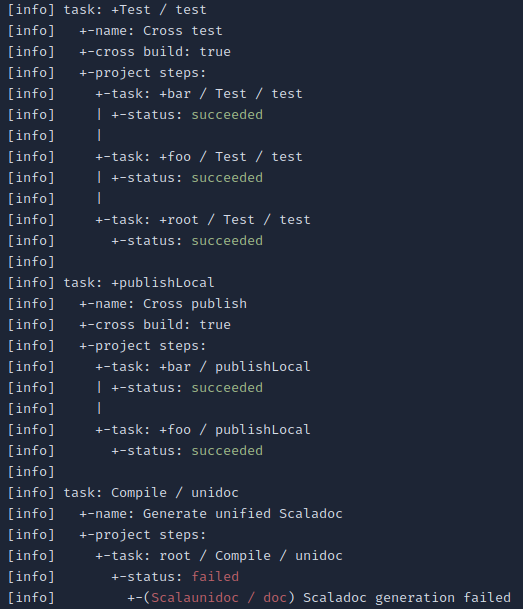
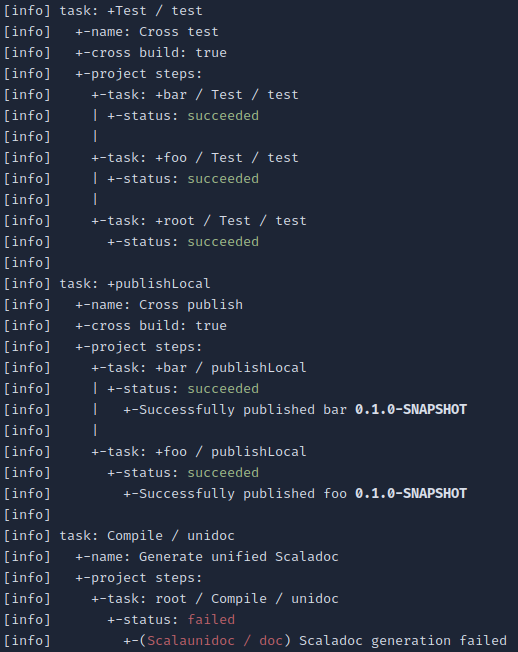
docs: update README.md
Update demo image and clarify some things

Changed region(s): [[0.0, 0.0, 0.9884, 0.9984]]

diff --git a/README.md b/README.md
@@ -1,8 +1,8 @@
 # sbt steps
 
 Configure, run and share a list of tasks and commands to run in your sbt projects. Run the
-steps from the sbt shell. Generate reports in HTML or in ASCII format. Use in GitHub
-Actions or any other CI environment.
+steps from the sbt shell with a single command. Generate reports in HTML or in ASCII
+format. Use in GitHub Actions or any other CI environment.
 
 ## Demo
 
@@ -13,7 +13,7 @@ Here are two report examples after running `ci` using `CIStepsPlugin`:
     <td><b>HTML report</b></td>
   </tr>
   <tr valign=top>
-    <td height=460>
+    <td height=526>
       <p><code><b>sbt:root> ci/stepsStatusReport -</b></code></p>
       <sup>
         <table><tr height=30><td colspan=5 width=400>(<b><code>+Test / test</code></b>) Cross test</td></tr><tr height=30><td title="succeeded" width=40>:white_check_mark:</td><td colspan=2><code>+bar / Test / test</code></td></tr><tr height=30><td title="succeeded" width=40>:white_check_mark:</td><td colspan=2><code>+foo / Test / test</code></td></tr><tr height=30><td title="succeeded" width=40>:white_check_mark:</td><td colspan=2><code>+root / Test / test</code></td></tr><tr height=30><td colspan=5 width=400>(<b><code>+publishLocal</code></b>) Cross publish</td></tr><tr height=30><td title="succeeded" width=40>:white_check_mark:</td><td colspan=2><code>+bar / publishLocal</code></td></tr><tr height=30><td></td><td width=40>:green_circle:</td><td>Successfully published bar <code>0.1.0-SNAPSHOT</code></td></tr><tr height=30><td title="succeeded" width=40>:white_check_mark:</td><td colspan=2><code>+foo / publishLocal</code></td></tr><tr height=30><td></td><td width=40>:green_circle:</td><td>Successfully published foo <code>0.1.0-SNAPSHOT</code></td></tr><tr height=30><td title="skipped" width=40>:white_large_square:</td><td colspan=2><code>+root / publishLocal</code></td></tr><tr height=30><td></td><td width=40>:white_circle:</td><td><code>publishLocal / skip</code> is set to true</td></tr><tr height=30><td colspan=5 width=400>(<b><code>Compile / unidoc</code></b>) Generate unified Scaladoc</td></tr><tr height=30><td title="failed" width=40>:red_square:</td><td colspan=2><code>root / Compile / unidoc</code></td></tr><tr height=30><td></td><td width=40>:x:</td><td>(<code>Scalaunidoc / doc</code>) Scaladoc generation failed</td></tr></table>  
@@ -26,7 +26,7 @@ Here are two report examples after running `ci` using `CIStepsPlugin`:
     <td><b>ASCII report</b></td>
   </tr>
   <tr valign=top>
-    <td height=460>
+    <td height=526>
       <p><code><b>sbt:root> ci/stepsTree --status</b></code></p>
       <img alt="steps tree" src="docs/stepstree.png" width=370 />
     </td>
@@ -63,6 +63,8 @@ lazy val myProject = (project in file("."))
   )
 ```
 
+Head over to [Usage](#usage).
+
 ### Create your own `StepsPlugin`
 
 See the [plugin development docs][create-steps-plugin].
@@ -97,7 +99,7 @@ After `ci` has completed, run `ci/stepsTree --status` to print the steps tree wi
 completed status. A status optionally has a message, such as:
 ```
 [info] +- status: succeeded
-[info]  +- Successfully published my-project `0.1.0-SNAPSHOT`.
+[info]  +- Successfully published my-project 0.1.0-SNAPSHOT.
 ```
 
 A detailed HTML report is created during `ci` that you can use as a job summary in [GitHub
@@ -181,6 +183,7 @@ customized as follows:
 
 ```sbt
 lazy val foo = (project in file("foo"))
+  .enablePlugins(ScalaUnidocPlugin)
   .settings(
     ci / steps := Seq(
       Test / test,
@@ -218,9 +221,8 @@ sbt:bar > ci/stepsTree
 
 > [!IMPORTANT]
 > Task steps do not run for project aggregates configured by `aggregate()`. Instead, they
-> are run for the subproject they are configured on. However, it's possible to run a task
-> only for a specific subproject with [project filters](#set-project-filters-on-a-step).
-> Sharing steps is done like any sbt setting, read the next section for more information.
+> are run for the subproject they are configured on. To share steps between subprojects,
+> see the next section. 
 
 > [!TIP]
 > Because the `steps` setting is a list, they can also be appended (`ci/steps += Compile /
@@ -238,8 +240,8 @@ sbt:bar > ci/stepsTree
 
 ### Share steps between subprojects
 
-Use the `ThisBuild` scope (or use a shared setting) to share steps between subprojects.
-For example:
+Like any sbt setting, use the `ThisBuild` scope (or use a shared setting) to share steps
+between subprojects. For example:
 
 ```sbt
 ThisBuild / ci / steps = Seq(
@@ -256,16 +258,20 @@ This configuration will result in the following steps sequence:
 
 ```
 sbt:root> ci/stepsTree
-[info] task: Test / +test
+[info] task: Test / test
 [info]   +-project steps:
 [info]     +-task: foo / Test / test
 [info]     +-task: root / Test / test
 [info] 
-[info] task: +publish
+[info] task: publish
 [info]   +-project steps:
 [info]     +-task: foo / publish
 [info]     +-task: root / publish
 ```
+
+> [!TIP]
+> To skip a step for a particular project, use [`skip := true`](#skip-a-project-step) or
+> [project filters](#set-project-filters-on-a-step)
 
 > [!TIP]
 > Sharing steps across builds is possible by [creating a plugin].
@@ -394,7 +400,8 @@ lazy val foo = (project in file("."))
 
 ### Skip a project step
 
-To skip a task step, set `skip := true` like you would for any sbt task. For example:
+To skip a task step in a particular project, set `skip := true` like you would for any sbt
+task. For example:
 
 ```sbt
 inThisBuild(Seq(
@@ -417,7 +424,7 @@ This configuration will result in the following steps sequence:
 
 ```
 sbt:root> ci/stepsTree --verbose
-[info] task: Test / +test
+[info] task: +Test / test
 [info]   +-cross build: true
 [info]   +-project steps:
 [info]     +-task: +foo / Test / test
@@ -431,16 +438,18 @@ sbt:root> ci/stepsTree --verbose
 [info]       +-skipped: root / publish / skip is set to true
 ```
 
-> [!NOTE]
-> Command steps cannot be skipped with `skip := true`, so use project filters instead.
-> Read further for more information.
+> [!WARNING]
+> To skip a command step it's better to use [project
+> filters](#set-project-filters-on-a-step). The `skip := true` setting may work if the
+> command refers to a task, but this behavior is untested in sbt-steps.
 
 ### Set project filters on a step
 
 Project filters allow you to declare a (shared) step, but only run it for a specific
 subproject. Use the `forProject` combinator to achieve this. The default is `ThisProject`.
-Project filters are especially useful for command steps. For example, the following steps
-will run the `coverageOn` and `coverageOff` command for the root project only.
+Project filters are especially useful for command steps, as they complement the `skip :=
+true` feature. For example, the following steps will run the `coverageOn` and
+`coverageOff` command for the root project only.
 
 ```sbt
 ThisBuild / ci / steps := Seq(
@@ -465,7 +474,7 @@ sbt:root> ci/stepsTree
 [info]   +-project steps:
 [info]     +-command: project root; coverageOn
 [info] 
-[info] task: Test / +test
+[info] task: +Test / test
 [info]   +-cross build: true
 [info]   +-project steps:
 [info]     +-task: +foo / Test / test
@@ -510,15 +519,14 @@ This configuration will result in the following steps sequence:
 sbt:root> ci/stepsTree
 [info] task: authenticate
 [info]   +-run once: true
-[info]   +-project filter: LocalRootProject
 [info]   +-project steps:
 [info]     +-task: foo / authenticate
 [info] 
 [info] task: +publish
 [info]   +-cross build: true
 [info]   +-project steps:
-[info]     +-task: foo / +publish
-[info]     +-task: root / +publish
+[info]     +-task: +foo / publish
+[info]     +-task: +root / publish
 ```
 
 Note the added `+-run once: true` line in the steps tree.
@@ -578,7 +586,7 @@ This configuration will result in the following steps sequence:
 ```
 > ci/stepsTree
 [info] project: root
-[info]   +-task: Test / +test
+[info]   +-task: +Test / test
 [info]     +-cross build: true
 [info]   +-task: +publish
 [info]     +-cross build: true
